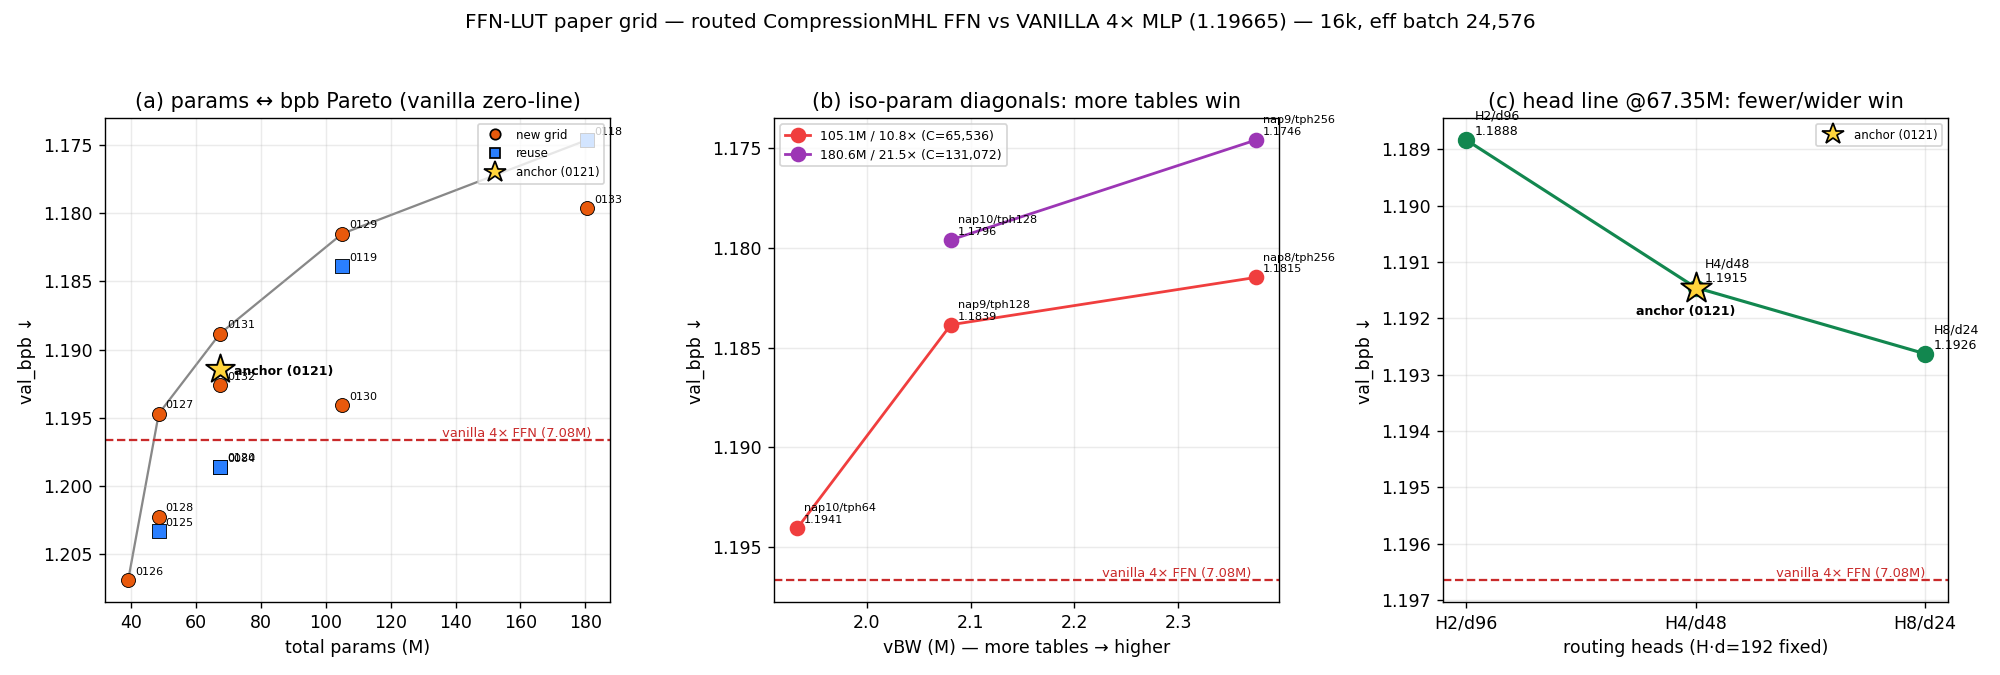
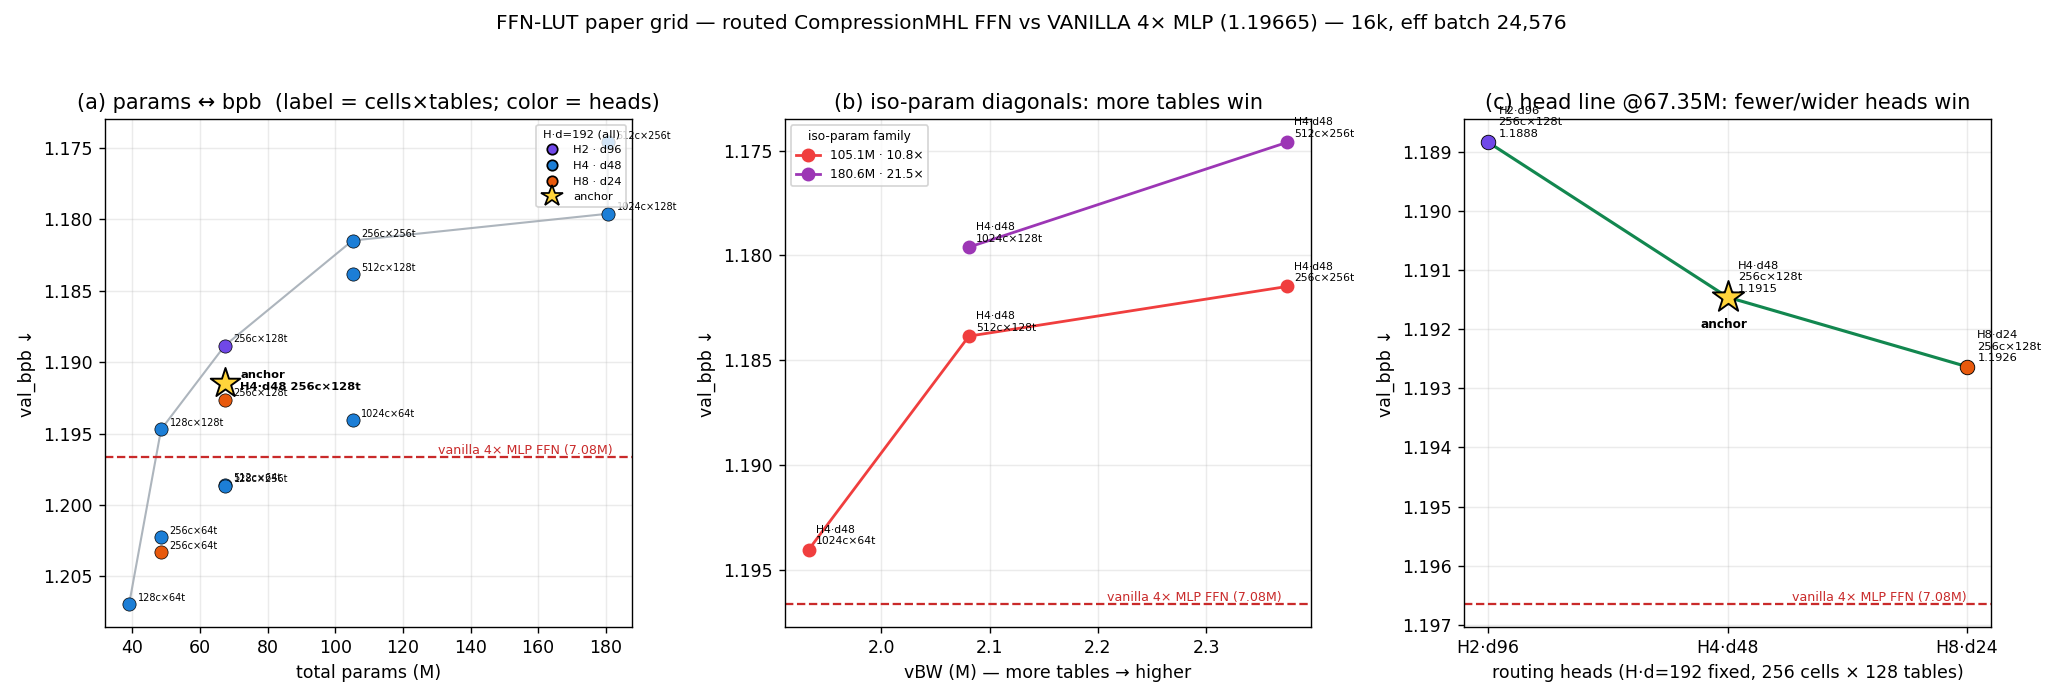
FFN-LUT grid figure: architecture-descriptive point labels (no exp numbers / new-vs-reuse)
Task 3a9d2083. Relabel every grid point by its architecture instead of exp id or provenance:
label = cells x tables (2^nap c x tph t); head count encoded by color (H2.d96 / H4.d48 / H8.d24),
noting H.d=192 holds for every point. Removed the new/reuse legend distinction (single circle marker).
Vanilla stays the labeled zero-line ('vanilla 4x MLP FFN (7.08M)'). Anchor exp_n_0121 stays a gold
star, now labeled descriptively ('anchor', H4.d48 256c x 128t) not by number, in panels (a) and (c).
No dense-V wording. Numeric values / axes / vanilla line unchanged. Summary caption synced.

diff --git a/experiments/hyperplane_ffn/FFN_GRID_SUMMARY.md b/experiments/hyperplane_ffn/FFN_GRID_SUMMARY.md
@@ -56,6 +56,7 @@ noting because nap7/tph256 is a poor allocation of its 67.35M budget.
 - **Best at ~vanilla-adjacent budget (67.35M):** 0131 H2/d96 (1.18883, −0.0078).
 - **Cheapest beating vanilla:** 0127 nap7/tph128 (48.48M, 2.79×, 1.19471, −0.0019).
 
-See `FFN_GRID_plots.png` — (a) params↔bpb Pareto with the vanilla 1.19665 reference line (all routed
-points, including 0084, plotted uniformly by exp id), (b) iso-param diagonals (bpb vs vBW; more tables
-win) with the vanilla line, (c) H2/H4/H8 head line with the vanilla line.
+See `FFN_GRID_plots.png` — points are labeled by architecture (cells×tables; every point has H·d=192,
+with head count shown by color: H2·d96 / H4·d48 / H8·d24), the anchor (H4·d48, 256 cells × 128 tables)
+is a gold star, and the vanilla 1.19665 line is the zero reference. (a) params↔bpb Pareto, (b) iso-param
+diagonals (bpb vs vBW; more tables win), (c) the H2/H4/H8 head line.
